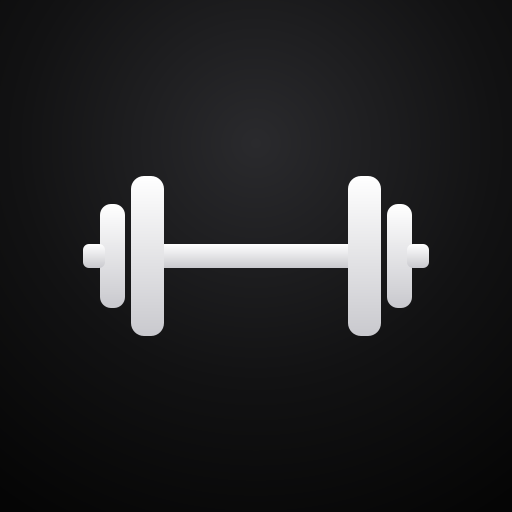
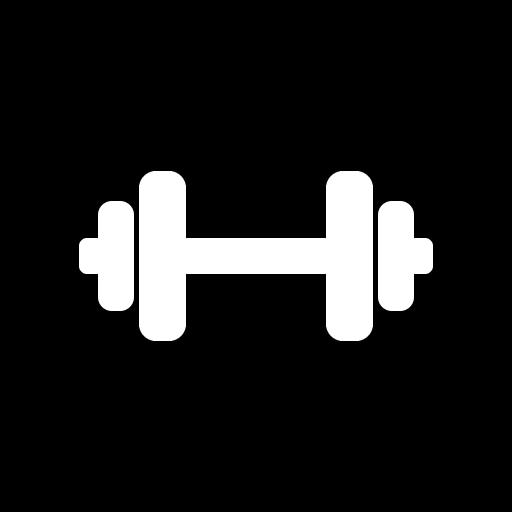
v1.0.2 - novo ícone
Claude-Session: https://claude.ai/code/session_018AyvhZkkdjRGBEzdKSXQbb

diff --git a/sw.js b/sw.js
@@ -1,7 +1,7 @@
 // Service worker do app Treino.
 // Guarda o app no iPhone para funcionar offline.
 // Ao publicar uma versão nova, mude VERSION (igual à APP_VERSION do index.html).
-const VERSION = '1.0.0';
+const VERSION = '1.0.2';
 const CACHE = 'treino-' + VERSION;
 const ASSETS = ['./', './index.html', './manifest.json', './icon-180.png', './icon-192.png', './icon-512.png'];
 

diff --git a/index.html b/index.html
@@ -337,7 +337,7 @@ textarea.input{height:auto;min-height:92px;padding:12px 0;resize:none;line-heigh
 
 <script>
 'use strict';
-const APP_VERSION = '1.0.0';
+const APP_VERSION = '1.0.2';
 
 /* ---------- utils ---------- */
 const $ = (s, r = document) => r.querySelector(s);
